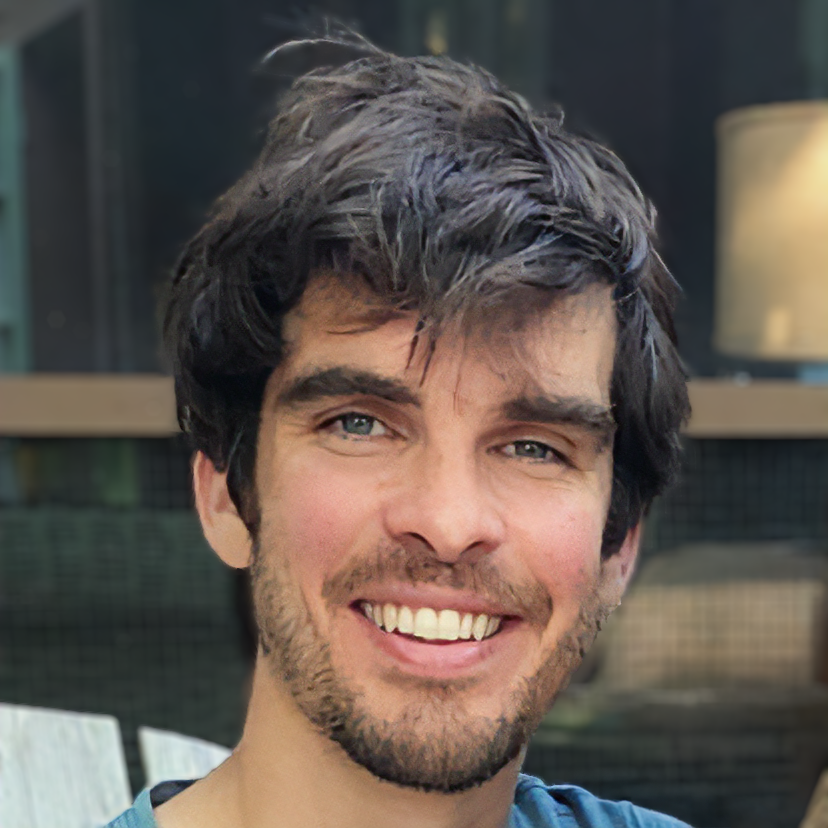
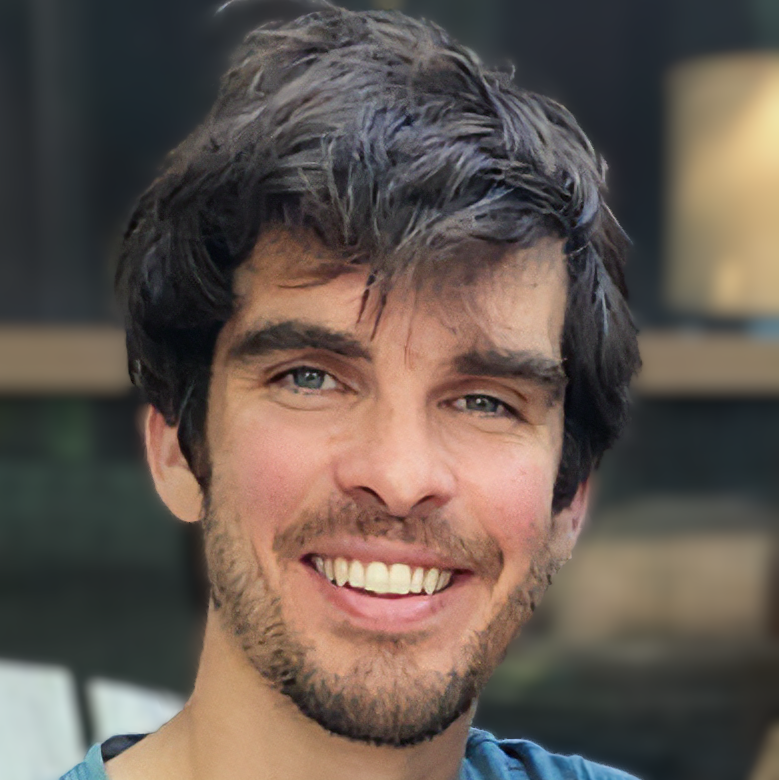
small tweaks

diff --git a/_layouts/home.html b/_layouts/home.html
@@ -29,7 +29,7 @@ div.main-pic {
     <div class="page-content" style="padding-top: 40px;">
       <div class="wrapper">
         <div class="home">
-          <img src="{{ page.profile_picture.src | absolute_url }}" class="profile-photo" style="float: right; width: 280px; max-width: 40%; margin-left: 20px; margin-bottom: 20px; border-radius: 50%; object-fit: cover;" alt="profile photo">
+          <img src="{{ page.profile_picture.src | absolute_url }}" class="profile-photo" style="float: right; width: 280px; max-width: 40%; margin-left: 20px; margin-bottom: 20px; border-radius: 50%; object-fit: cover; transform: rotate(-4deg); object-position: 70% 70%;" alt="profile photo">
           <h1 style="font-size: 2.5em; margin-bottom: 0.2em;">Henry Pinkard</h1>
           {{ content }}
           <div style="clear: both;"></div>

diff --git a/index.md b/index.md
@@ -1,7 +1,7 @@
 ---
 layout: home
 profile_picture:
-  src: /assets/img/HP_square.jpg
+  src: /assets/img/HP_square_crop.png
   alt: Headshot
 
 sections:
@@ -332,14 +332,13 @@ sections:
 
 I'm an interdisciplinary researcher with expertise in information theory, computational imaging, deep learning, biology, and software engineering. I did my PhD and postdoc in the UC Berkeley <a href="https://eecs.berkeley.edu/">EECS</a> department and <a href="https://bair.berkeley.edu/">Berkeley AI Research Lab</a>, advised by <a href="http://www.laurawaller.com/">Laura Waller</a>.
 
-<p>My research has included:</p>
-
+<p>My work includes:</p>
 <ul>
-<li>Inventing a technique to design cameras and other sensors for AI rather than for human vision</li>
-<li>Building the ARC-AGI-2 benchmark for testing fluid intelligence in large language models</li>
-<li>Creating a 12-million-image biomedical dataset to train computer vision algorithms</li>
-<li>Producing the most widely used software for automating microscopes, used in applications from diagnosing disease to discovering new materials</li>
-<li>Developing neural network architectures that incorporate physics knowledge to enable fast and low-cost scientific discovery</li>
+<li>A technique to design cameras and other sensors for AI rather than for human vision</li>
+<li>The ARC-AGI-2 benchmark for testing fluid intelligence in large language models</li>
+<li>A 12-million-image biomedical dataset to train computer vision algorithms</li>
+<li>The most widely adopted software for automating microscopes, with applications ranging from cellular imaging to nanomaterials research</li>
+<li>Neural network architectures that incorporate physics knowledge to enable fast and low-cost scientific discovery</li>
 </ul>
 
 <p style="text-align: center">
